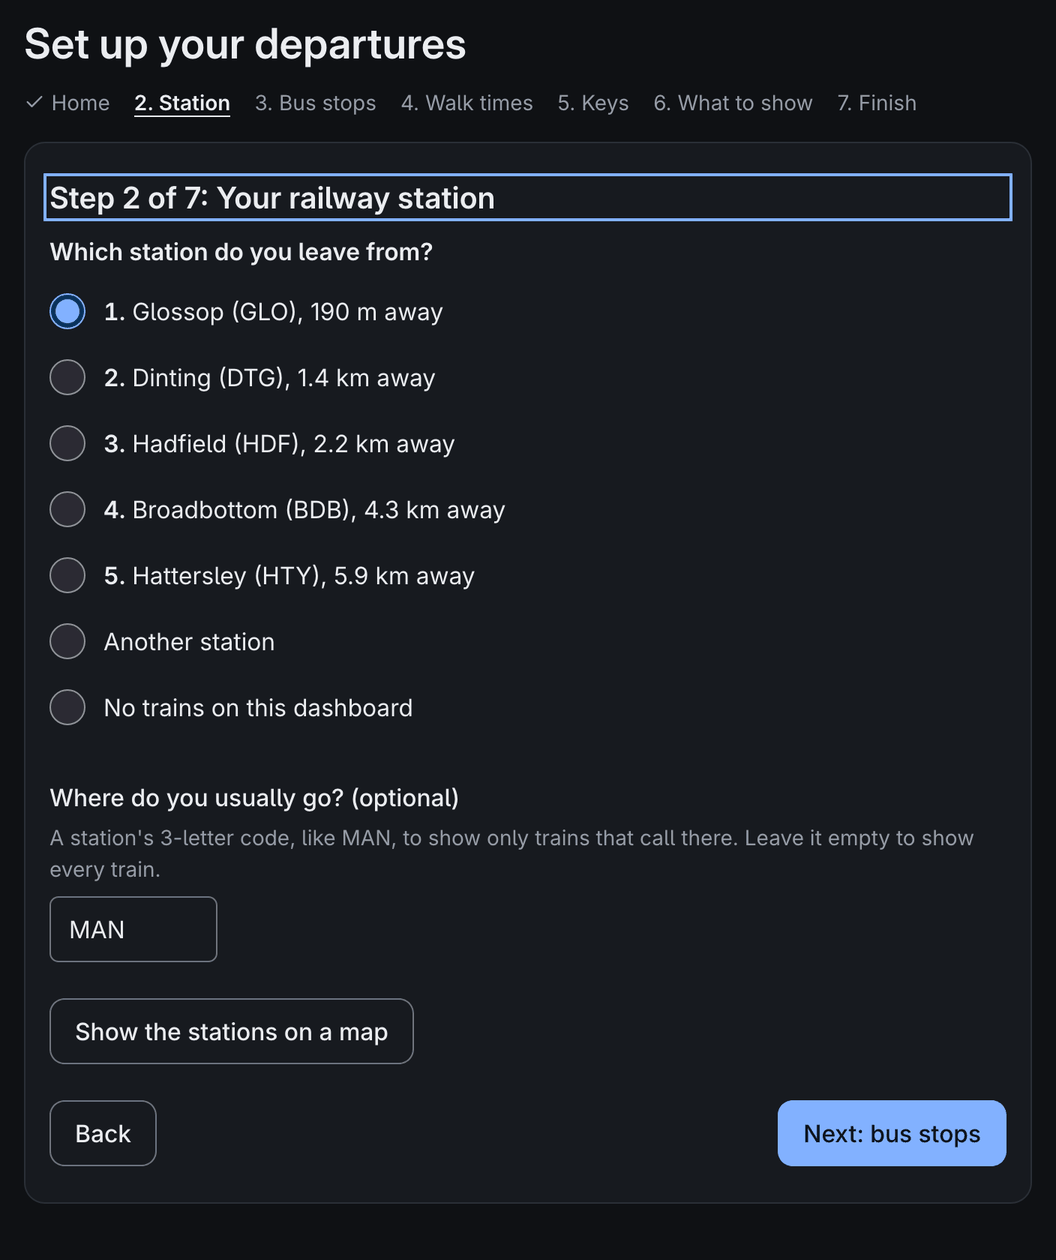
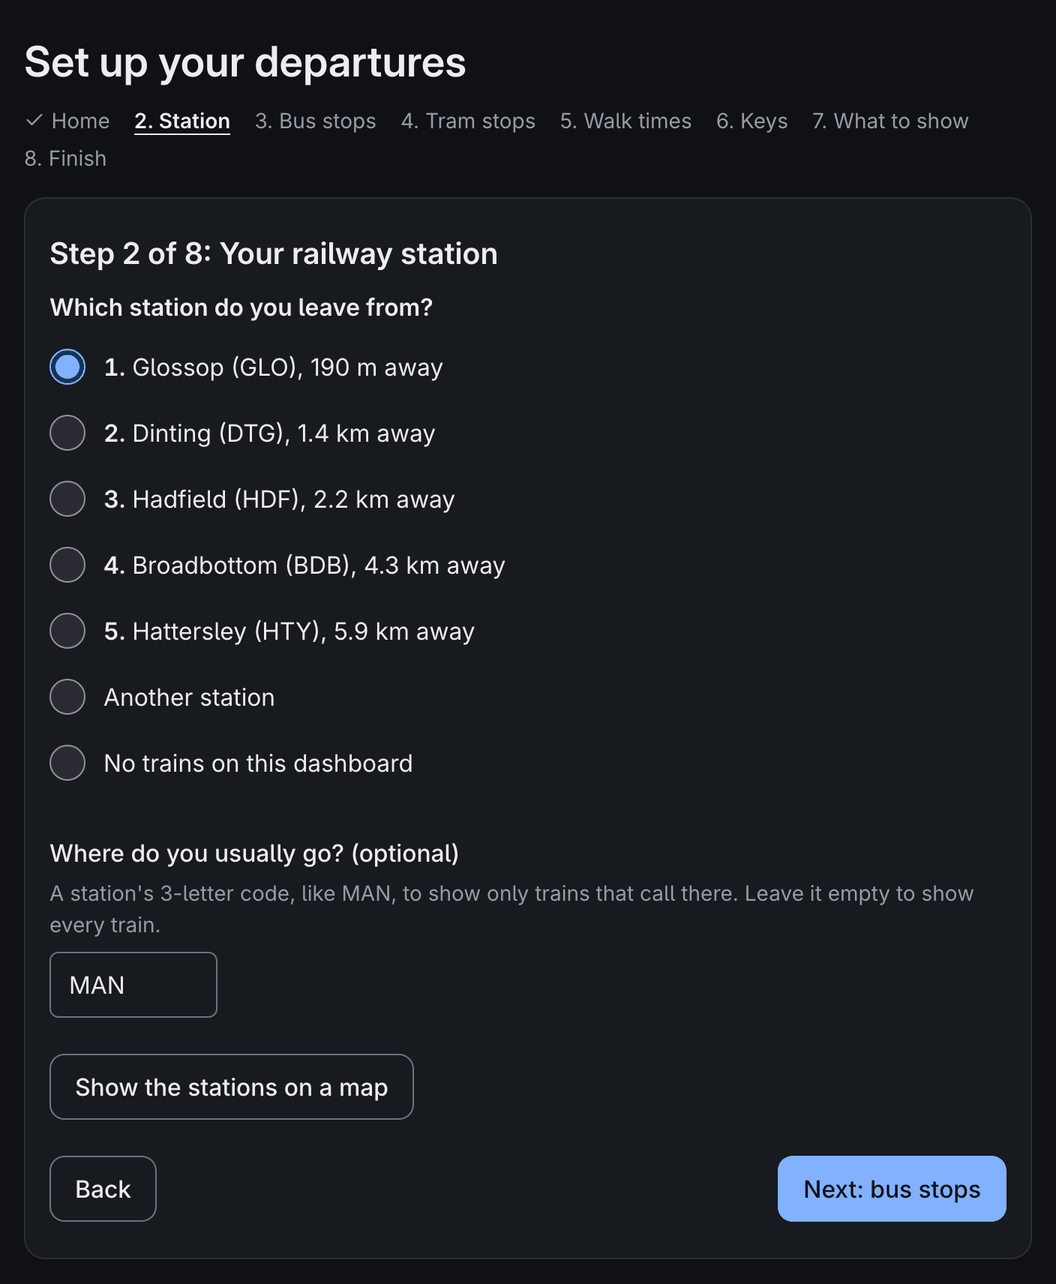
docs(setup): give the tram step its own number, and show its search
The tram step now always shows, so it is step 4 and the rest move up
one; the wizard's pictures said 7 steps and walk times at step 4. The
search by name, the Over an hour walk and the Tram stop codes box are
described where the old words said trams were only for homes near them.

diff --git a/docs/setup-wizard.md b/docs/setup-wizard.md
@@ -13,12 +13,12 @@ Until it is set up, the board shows **Set me up** and the settings address, and 
 1. **Home:** type your postcode, or search for an address, and check the place it finds. A map is there if you want it, but every step works without one.
 2. **Station:** pick from the stations nearest home, type another station's code, or choose no trains. Optionally, say where you usually go (like `MAN`) to show only trains calling there.
 3. **Bus stops:** tick the stops you use, up to 10. Each gets a short label for the board; the letter on the stop's sign is suggested.
-   - **Tram stops:** the 5 Metrolink stops and the 8 London Underground, DLR, tram and cable car stations and river bus piers nearest home, within 5 km as the crow flies, and any other found with **Find a stop by name**, however far away. Tick up to 4, all Metrolink or all London, or none. They come from lists that come with the app, so finding them sends home nowhere. See [Tram times](trams.md) and [London](london.md).
-4. **Walk times:** worked out from the walking route to each; change any that are wrong. A place over an hour's walk away is left empty, marked **Over an hour**, so no time to leave is shown for it; type one if you like.
-5. **Keys:** paste the keys every view uses: the Rail Data Marketplace key for trains and the BODS key for buses, and, with London stops ticked or a TfL key already saved, TfL's optional key. Each has **How to get this key** and a **Test this key** button. See [Keys](keys.md). Keys only one view uses are on the settings' Keys page.
-6. **Views** (a Pi only): the board, the dashboard, or both. The board is ticked at first. Docker and a desktop have only the dashboard, so they skip this step.
-7. **What to show:** with two or more of a station, bus stops and tram stops, first which of trains, buses and trams each view you turned on shows, all ticked at first that fit; the board says how many its display has room for in its look and text size (see [Modes of transport](configuration.md#modes-of-transport)). Then, for each view, how much it shows beside the departures' times, which always show: **Just the times**, **The usual** (picked at first) or **Everything**. Each says what it adds. To choose item by item, use **What to show** on the settings' [Board](settings.md#board) and [Dashboard](settings.md#dashboard) pages, now or later.
-8. **Check and save:** with bus stops, saving first finds the bus companies serving them and builds their timetable, which can take a few minutes; leave the page open, or cancel. You can also tick **Also draw each bus line's route on the screen's map**, the route strips for the screen's bus page (slower to set up). Once the timetable is built, the roads for the dashboard's bus maps are found, for up to 5 minutes more, with a progress bar: press **Wait for the roads** to save once they are found, or **Carry on** to save now and let them finish on their own. Until then the maps draw straight lines between stops, and **Your place** on the settings' Overview says how far they have got. If they are stopped part way (the dashboard starting again with the new settings, say), the next timetable build, within the hour, finds the rest. Metrolink's timetable isn't built here: it is built within the hour after saving (see [Tram times](trams.md#how-the-timetable-is-kept)).
+4. **Tram stops:** the 5 Metrolink stops and the 8 London Underground, DLR, tram and cable car stations and river bus piers nearest home, within 5 km as the crow flies. Wherever home is, **Find a stop by name** finds others, however far away: type 2 or more letters of the name, like `Victoria`, and up to 10 stops with it in their names join the list, those starting with it first. Tick up to 4, all Metrolink or all London, or none. They come from lists that come with the app, so finding them sends home nowhere. See [Tram times](trams.md) and [London](london.md).
+5. **Walk times:** worked out from the walking route to each; change any that are wrong. A place over an hour's walk away, like a tram stop found by name in another town, is left empty, marked **Over an hour**, so no time to leave is shown for it; type one if you like.
+6. **Keys:** paste the keys every view uses: the Rail Data Marketplace key for trains and the BODS key for buses, and, with London stops ticked or a TfL key already saved, TfL's optional key. Each has **How to get this key** and a **Test this key** button. See [Keys](keys.md). Keys only one view uses are on the settings' Keys page.
+7. **Views** (a Pi only): the board, the dashboard, or both. The board is ticked at first. Docker and a desktop have only the dashboard, so they skip this step.
+8. **What to show:** with two or more of a station, bus stops and tram stops, first which of trains, buses and trams each view you turned on shows, all ticked at first that fit; the board says how many its display has room for in its look and text size (see [Modes of transport](configuration.md#modes-of-transport)). Then, for each view, how much it shows beside the departures' times, which always show: **Just the times**, **The usual** (picked at first) or **Everything**. Each says what it adds. To choose item by item, use **What to show** on the settings' [Board](settings.md#board) and [Dashboard](settings.md#dashboard) pages, now or later; that is also where to choose which modes get leave times (the board's **When to leave**, and the modes **Next to catch** picks from), which the presets here leave as they are.
+9. **Check and save:** with bus stops, saving first finds the bus companies serving them and builds their timetable, which can take a few minutes; leave the page open, or cancel. You can also tick **Also draw each bus line's route on the screen's map**, the route strips for the screen's bus page (slower to set up). Once the timetable is built, the roads for the dashboard's bus maps are found, for up to 5 minutes more, with a progress bar: press **Wait for the roads** to save once they are found, or **Carry on** to save now and let them finish on their own. Until then the maps draw straight lines between stops, and **Your place** on the settings' Overview says how far they have got. If they are stopped part way (the dashboard starting again with the new settings, say), the next timetable build, within the hour, finds the rest. Metrolink's timetable isn't built here: it is built within the hour after saving (see [Tram times](trams.md#how-the-timetable-is-kept)).
 
 ## Running it again
 

diff --git a/docs/london.md b/docs/london.md
@@ -37,8 +37,8 @@ A stop's code is TfL's: `940GZZ`, then `LU` (Underground), `DL` (DLR), `CR` (Lon
 
 ## What it shows
 
-- **On the board:** each train's expected time, where it goes, and its platform on a board with room for one. On e-paper the status column says `Live`, as the panel never redraws just to count down; an HDMI screen counts down instead (`3 min`, `Due`). With more than one line among the rows, each names its line first ("Central: Epping"); with one line at two stops, its stop's label ("T: Epping"). The section says when to leave for the next you can reach, by its stop's walk. A line at your stops not running well (TfL's status, like "Minor Delays") is the board's notice, as National Rail's messages are for trains.
-- **On the dashboard:** a countdown with the live mark, as a live bus has; where it goes, with "via Bank" where TfL says so; its line with the line's colour beside the name, which way and the platform ("Central line · Eastbound, platform 6"); and where it is now ("Between Chancery Lane and St. Paul's", while **Where it is** is shown). Next to catch takes them as live. A line not running well joins the disruption line under Next to catch, in TfL's words (or "Central: Minor Delays." where TfL gives none), and is listed under the section's heading when you open it ("Underground: …"); a lift, escalator or step-free route out of order at one of your stations is a quiet **Station information** line in the section, on the dashboard only. A row's sheet has its line, platform, stop, expected time, where it is and when to leave, and says why there is no punctuality.
+- **On the board:** each train's expected time, where it goes, and its platform on a board with room for one. On e-paper the status column says `Live`, as the panel never redraws just to count down; an HDMI screen counts down instead (`3 min`, `Due`). With more than one line among the rows, each names its line first ("Central: Epping"); with one line at two stops, its stop's label ("T: Epping"). The section says when to leave for the next you can reach, by its stop's walk, while **Trams** is ticked under **When to leave** on the Board page. A line at your stops not running well (TfL's status, like "Minor Delays") is the board's notice, as National Rail's messages are for trains.
+- **On the dashboard:** a countdown with the live mark, as a live bus has; where it goes, with "via Bank" where TfL says so; its line with the line's colour beside the name, which way and the platform ("Central line · Eastbound, platform 6"); and where it is now ("Between Chancery Lane and St. Paul's", while **Where it is** is shown). Next to catch takes them as live, while **Trams** is ticked for it under **What to show**. A line not running well joins the disruption line under Next to catch, in TfL's words (or "Central: Minor Delays." where TfL gives none), and is listed under the section's heading when you open it ("Underground: …"); a lift, escalator or step-free route out of order at one of your stations is a quiet **Station information** line in the section, on the dashboard only. A row's sheet has its line, platform, stop, expected time, where it is and when to leave, and says why there is no punctuality.
 
 ![The dashboard's Metro section for Bank: the Northern line to Edgware in 2 min, Northbound, platform 4, between Borough and London Bridge; the Central line to Epping in 4 min; the DLR to Lewisham in 5 min from Bank DLR; then West Ruislip and Morden, each with its line's colour, its stop, its walk and when to leave, and a Station information line saying the lift to the Northern line is out of service](images/dashboard-london.png)
 

diff --git a/docs/trams.md b/docs/trams.md
@@ -19,6 +19,8 @@ Only Metrolink is read. TfGM lists the replacement buses it runs when part of th
 
 The [setup wizard](setup-wizard.md#the-steps) asks for your tram stops after the bus stops. It lists the 5 Metrolink stops nearest home, within 5 km as the crow flies, and **Find a stop by name** finds any other, however far away, from a list that comes with the app (from NaPTAN), so nothing is sent anywhere to find them. Tick up to 4. Each gets a label, T, U, V and W, and a walk time, as the bus stops do; a stop over an hour's walk away gets none, so the board gives no time to leave for it.
 
+![Setup's tram step for a home in Glossop, with no tram stops near it: a search for Piccadilly has listed Piccadilly and Piccadilly Gardens tram stops, 19 km away, and Piccadilly Circus Underground station, 248 km away, each with a tickbox, over the Find a stop by name box](images/setup-trams.png)
+
 In `config.toml` it looks like this:
 
 ```toml
@@ -48,7 +50,7 @@ A stop's code is `9400ZZMA` and its three letters, as NaPTAN has it; `src/twobel
 
 ## What the trams show
 
-- **On the board:** each tram's booked time, where it goes, and `sch` where a train's status goes, as a bus known only from the timetable says; with two or more tram stops, the stop's label before the destination ("T: Bury"). The section says when to leave for the next tram you can reach, by its stop's walk. See [Reading the board](reading-the-board.md).
-- **On the dashboard:** a **Trams** section with each tram's time marked "sched.", its line (like "Blue Line") under the destination, its stop where there are several, and when to leave. Next to catch takes trams as it does buses known only from the timetable, saying **Timetable only**. A tram's sheet has its line, stop, booked time and leave time, and says why there is no expected time. See [The dashboard](dashboard.md#whats-on-it).
+- **On the board:** each tram's booked time, where it goes, and `sch` where a train's status goes, as a bus known only from the timetable says; with two or more tram stops, the stop's label before the destination ("T: Bury"). The section says when to leave for the next tram you can reach, by its stop's walk, while **Trams** is ticked under **When to leave** on the Board page. See [Reading the board](reading-the-board.md).
+- **On the dashboard:** a **Trams** section with each tram's time marked "sched.", its line (like "Blue Line") under the destination, its stop where there are several, and when to leave. Next to catch takes trams as it does buses known only from the timetable, saying **Timetable only**, while **Trams** is ticked for it under **What to show**. A tram's sheet has its line, stop, booked time and leave time, and says why there is no expected time. See [The dashboard](dashboard.md#whats-on-it).
 
 ![The dashboard's Trams section, 3 minutes' walk from Piccadilly: the 07:05 to Altrincham on the Purple Line with Go now, the 07:08 to Bury, a replacement bus to Etihad Campus at 07:11, and two more, each time marked sched. and each with when to leave](images/dashboard-trams.png)

diff --git a/README.md b/README.md
@@ -33,7 +33,7 @@ The next trains and buses side by side, each with its walk, its countdown and wh
 
 ![The train and bus boards: the 07:12 waiting at Hadfield and often late, the 07:42 cancelled, and buses with strips, the 341 two stops away and the 61's bus on its way](docs/images/dashboard-boards.png)
 
-Near a tram stop the trams have a section too; in London the Underground and DLR come live, with each line's colour and where each train is now:
+Manchester's trams have a section too, wherever home is; in London the Underground and DLR come live, with each line's colour and where each train is now:
 
 ![London's Metro section for Bank: the Northern line to Edgware in 2 min between Borough and London Bridge, the Central line to Epping, the DLR to Lewisham, each with its platform, walk and when to leave, and a lift out of service at Bank](docs/images/dashboard-london.png)
 
@@ -68,11 +68,11 @@ An HDMI screen redraws every second, with a running clock and countdowns, two mo
 
 ## Set up in a few minutes
 
-No config files to write. Give the setup wizard your postcode or address: it finds your nearest stations, bus stops and tram stops, works out the walk to each along real streets, finds your bus companies and builds their timetable.
+No config files to write. Give the setup wizard your postcode or address: it finds your nearest stations, bus stops and tram stops (or any tram stop by name), works out the walk to each along real streets, finds your bus companies and builds their timetable.
 
 <p>
   <img width="49%" alt="Setup step 2: the five nearest stations with their distances, Glossop chosen, and trains filtered to those calling at Manchester (MAN)" src="docs/images/setup-station.png">
-  <img width="49%" alt="Setup step 4: walk times to Glossop station and two bus stops, each worked out along streets and paths" src="docs/images/setup-walk.png">
+  <img width="49%" alt="Setup step 5: walk times to Glossop station and two bus stops, each worked out along streets and paths" src="docs/images/setup-walk.png">
 </p>
 
 Everything else is on the settings site, in plain words, behind one password:
